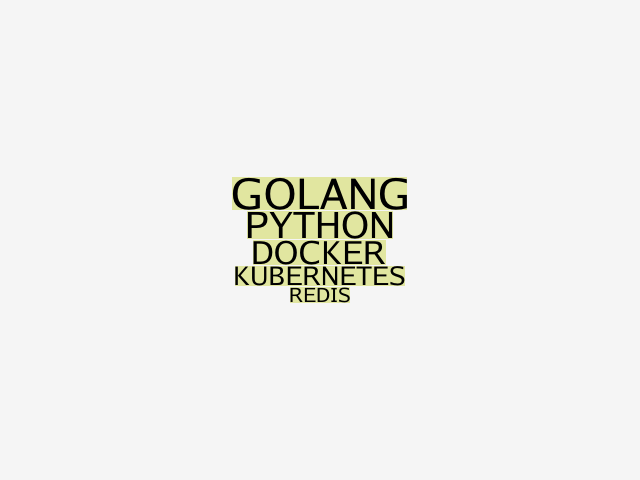
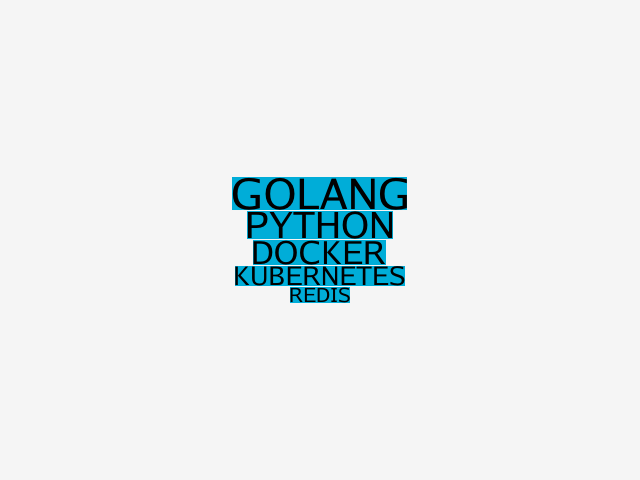
update

Changed region(s): [[0.3438, 0.3438, 0.6562, 0.6562]]

diff --git a/src/canvas.go b/src/canvas.go
@@ -55,7 +55,7 @@ func writeText(canvas *image.RGBA, wordsWithWeights []Word, parsedFont *opentype
 		x := canvas.Bounds().Min.X + (canvas.Bounds().Dx()-layout.bounds.Dx())/2
 
 		box := image.Rect(x, y, x+layout.bounds.Dx(), y+layout.bounds.Dy())
-		draw.Draw(canvas, box, image.NewUniform(color.RGBA{225, 230, 160, 255}), image.Point{}, draw.Src)
+		draw.Draw(canvas, box, image.NewUniform(color.RGBA{0, 173, 216, 255}), image.Point{}, draw.Src)
 
 		textDrawer := font.Drawer{
 			Dst:  canvas,
